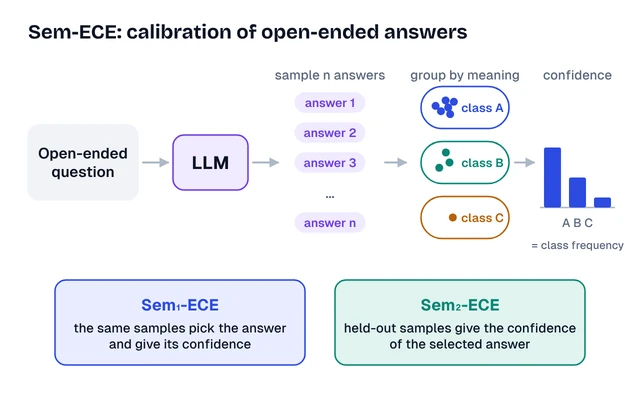
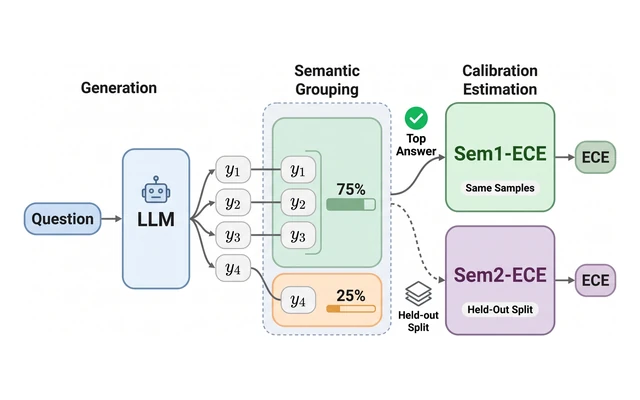
PaperBanana thumbnails: Sem-ECE and BOLL from the pilot; generate the other 11 with distinct palettes; fix the amyloid label [figs]
Claude-Session: https://claude.ai/code/session_01BAuoegmM5Ps66Ab4iXui3G

diff --git a/scripts/site_tools/paperbanana/run.py b/scripts/site_tools/paperbanana/run.py
@@ -23,6 +23,42 @@ out.mkdir(parents=True, exist_ok=True)
 S = cfg['settings']
 
 
+def caption(p):
+    c = p['caption'].strip()
+    if p.get('palette'):
+        c += f" Color palette: {p['palette']}, on a white background; avoid the default pastel blue/green/purple scheme."
+    return c + ' ' + cfg['thumbnail_note'].strip()
+
+
+def edit(e, n=2):
+    """Apply a text instruction to an existing image with the image model (n tries); save edit_<k>.png."""
+    from google import genai
+    from google.genai import types
+    client = genai.Client(api_key=os.environ['GOOGLE_API_KEY'])
+    d = out / e['id']
+    d.mkdir(parents=True, exist_ok=True)
+    src = Image.open(HERE / e['image'])
+    saved = []
+    for k in range(1, n + 1):
+        try:
+            resp = client.models.generate_content(
+                model=S['image_model'], contents=[src, e['instruction']],
+                config=types.GenerateContentConfig(response_modalities=['IMAGE'],
+                                                   image_config=types.ImageConfig(aspect_ratio=S['aspect_ratio'], image_size='2K')))
+            for part in resp.candidates[0].content.parts:
+                data = getattr(getattr(part, 'inline_data', None), 'data', None)
+                if data:
+                    from io import BytesIO
+                    im = Image.open(BytesIO(data)).convert('RGB')
+                    im.thumbnail((1800, 1800))
+                    im.save(d / f'edit_{k}.png', optimize=True)
+                    saved.append(f'edit_{k}.png')
+                    break
+        except Exception as ex:  # keep going; the error is recorded in the summary
+            saved.append(f'error: {str(ex)[:300]}')
+    return {'id': e['id'], 'edit': e['instruction'], 'images': saved}
+
+
 def generate(pid):
     p = cfg['papers'][pid]
     d = out / pid
@@ -31,7 +67,7 @@ def generate(pid):
         f.write(p['method'])
         method_path = f.name
     cmd = ['paperbanana', 'generate', '--input', method_path,
-           '--caption', p['caption'].strip() + ' ' + cfg['thumbnail_note'].strip(),
+           '--caption', caption(p),
            '--output-dir', str(d / 'runs'), '--aspect-ratio', S['aspect_ratio'],
            '--num-candidates', str(S['num_candidates']), '--budget', str(S['budget_usd']),
            '--vlm-provider', 'gemini', '--vlm-model', S['vlm_model'],
@@ -80,5 +116,6 @@ if __name__ == '__main__':
     with ThreadPoolExecutor(max_workers=S.get('parallel', 3)) as ex:
         results = list(ex.map(generate, ids))
     summary = [collect(pid, rc) for pid, rc in results]
+    summary += [edit(e) for e in cfg.get('edits') or []]
     (out / 'summary.json').write_text(json.dumps(summary, indent=2))
     print(json.dumps(summary, indent=2))
